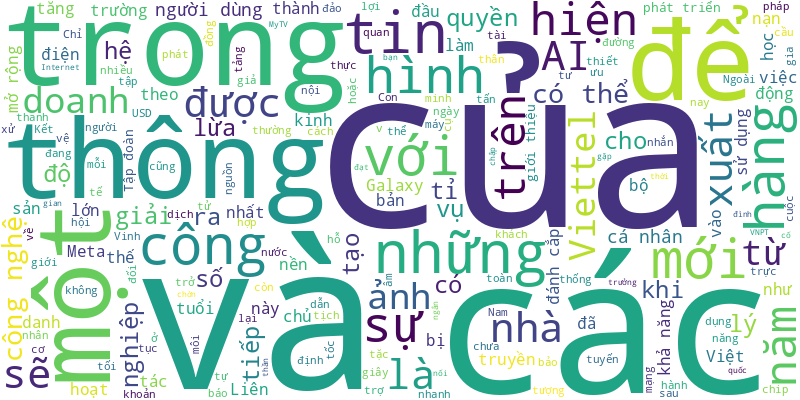
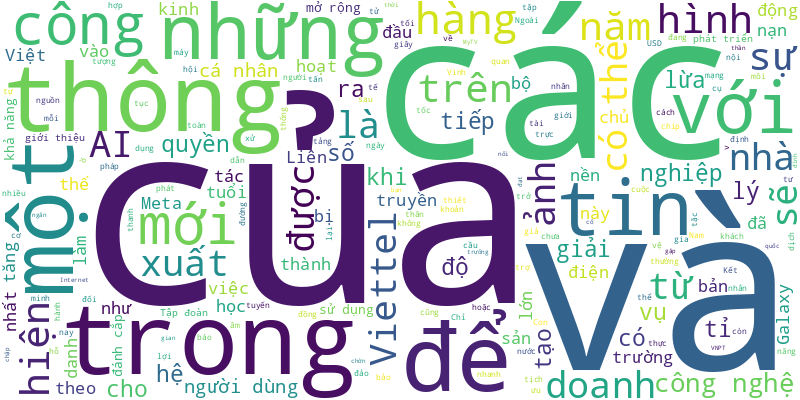
🍀 = 40%

diff --git a/README.md b/README.md
@@ -1,6 +1,25 @@
 # Tuoi Tre RSS 
 
 ## Giáo dục 
+- Nhiều bước tiến mới về AI sẽ được Google và các chuyên gia công nghệ hàng đầu giới thiệu trong sự kiện AI Day tại TP.HCM. Tuổi TRẻ Online cập nhật.
+- Đăng ký 'trại hè quân đội nhí' cho con trên Facebook, chỉ trong 5 tiếng, chị M. bị lừa lấy hơn 1 tỉ đồng.
+- Học sinh có 4 ngày đăng ký dự khảo sát vào lớp 6 các trường THCS nổi tiếng ở TP Thủ Đức, TP.HCM.
+- Đại học Quốc gia TP.HCM vừa công bố triển khai phương thức ưu tiên xét tuyển thẳng thí sinh giỏi, tài năng...
+- Với sự phát triển không ngừng của xã hội, AI ngày càng có sức ảnh hưởng đến con người, đặc biệt là giới trẻ. Vậy AI trong mắt giới trẻ như thế nào?
+- Ngày 10-5, AI Day - 'Hiểu Al làm giàu hành trang nghề nghiệp' được Tuổi Trẻ phối hợp với Google tổ chức tại TP.HCM với nhiều hoạt động hấp dẫn.
+- Tận dụng vỏ trái cây, nhóm nữ sinh viên Trường đại học Quốc tế đã làm ra màng bọc thực phẩm có thể ăn được.
+- Chiều 9-5, Cục Quản lý chất lượng, Bộ Giáo dục và Đào tạo chính thức thông tin về phương án xử lý với hơn 56.000 chứng chỉ IELTS do IDP tổ chức thi tại Việt Nam trong thời gian chưa được cấp phép.
+- Làm thế nào để bịt lỗ hổng kiểm định đại học khi sinh viên tốt nghiệp đi phụ bán cà phê, bưng phở cũng xếp vào có việc làm.
+- Có tổng cộng 20 sinh viên nghi ngộ độc thực phẩm sau khi ăn tại một tòa nhà ký túc xá khu B Đại học Quốc gia TP.HCM.
+- Ngày 10-5, báo Tuổi Trẻ phối hợp cùng Google tổ chức sự kiện ‘Hiểu AI - Làm giàu hành trang nghề nghiệp ’
+- GS.TS Võ Xuân Vinh, người ở vị trí thứ 8 trong 47 người Việt vào ‘top nhà khoa học ảnh hưởng nhất thế giới’, vừa bị một tạp chí gỡ bỏ bài báo quốc tế.
+- Phòng giáo dục và đào tạo TP Thủ Đức, TP.HCM vừa công bố kế hoạch tuyển sinh đầu cấp năm học 2024 - 2025.
+- Tại Việt Nam, AI đang được ứng dụng ngày càng rộng rãi trong trường học, mang đến những thay đổi tích cực.
+- Cử tri huyện Hóc Môn, TP.HCM cho rằng ngành giáo dục cần quản lý các trường quốc tế chặt chẽ hơn sau những vụ việc ồn ào thời gian qua.
+- Trong thông báo vừa phát đi, Công ty IDP cho biết hơn 56.200 chứng chỉ IELTS cấp năm 2022 vẫn được thế giới công nhận, dù Bộ Giáo dục và Đào tạo nói chưa tuân thủ quy định tại Việt Nam.
+- Tối 8-5, đã có 19 sinh viên ký túc xá Đại học Quốc gia TP.HCM nhập viện trong tình trạng đau bụng, tiêu chảy... nghi do ngộ độc thực phẩm.
+- Thật lạ khi ngày thi tuyển sinh lớp 10 tại TP.HCM còn hơn 1 tháng, nhiều học sinh lớp 9 đã rẽ hướng đăng ký học các trường nghề. Càng lạ hơn khi lựa chọn "bỏ" lớp 10 công lập có không ít học sinh giỏi.
+- Đến thời điểm này, hàng chục ngàn thí sinh trên cả nước đã biết mình đậu đại học (trúng tuyển có điều kiện) ở các phương thức xét tuyển sớm.
 - Tuyển sinh vào lớp 1, lớp 6, lớp 10 ở TP.HCM năm nay có nhiều điểm mới, phụ huynh lưu ý gì để chọn được chỗ học như mong muốn cho con?
 - Lãnh đạo Sở Giáo dục và Đào tạo Hà Nội khẳng định không cho phép các trường vận động, ép buộc học sinh không dự thi tuyển sinh vào lớp 10.
 - Trước khi giữ cương vị hiệu trưởng, PGS.TS Nguyễn Đức Sơn là phó hiệu trưởng Trường đại học Sư phạm Hà Nội.
@@ -12,57 +31,38 @@
 - Em Nguyễn Lê Quốc Bảo, học sinh Trường chuyên Lê Hồng Phong, TP.HCM, đã được cấp visa đi Mỹ dự thi khoa học kỹ thuật quốc tế vào sáng 8-5.
 - Tham gia các câu lạc bộ ở trường cao đẳng, đại học giúp sinh viên có cơ hội hợp tác với các nghệ sĩ nổi tiếng, tự tin tổ chức sự kiện.
 - Mùa tuyển sinh lớp 10 năm 2024, Trường chuyên Lê Hồng Phong và Trần Đại Nghĩa sẽ tuyển sinh lớp chuyên Anh đề án 5695. Lớp này khác lớp chuyên Anh ra sao?
-- Một số học sinh đang ở lứa tuổi mới lớn 13, 14 đã theo bạn bè tự tìm đọc các loại sách đam mỹ (nam yêu nam) và đọc say sưa, đắm đuối khiến nhiều bậc phụ huynh vô cùng lo lắng.
-- Những thùng nước ngọt đầu tiên của học sinh, giáo viên, phụ huynh tại quận 8, TP.HCM được chở đến xã Tân Thành, huyện Gò Công Đông, tỉnh Tiền Giang từ ngày 7-5.
-- Thí sinh có điểm thi đánh giá tư duy cao nhất kíp thi sáng đợt 4 là học sinh Trường THPT Đan Phượng (Hà Nội), đạt 95,65/100 điểm.
-- Sở Giáo dục và Đào tạo tổ chức hội thi vẽ bích họa sen nhằm hưởng ứng Lễ hội sen Đồng Tháp lần thứ II-2024, qua đó thu hút hàng trăm tác phẩm tranh sen.
-- Chiều tối 7-5, ban tổ chức hội thi sáng tác ảnh Tuổi Xanh năm 2024 tổng kết và trao giải thưởng cho các thí sinh tham dự vòng chung kết.
-- Start-up có tên Tomia phát triển ứng dụng học tập kết hợp AI và phương pháp giáo dục Montessori vốn được nhiều trường mầm non và phụ huynh sử dụng trong nuôi dạy trẻ.
-- Sắp đến ngày diễn ra Hội thi khoa học kỹ thuật quốc tế diễn ra tại Mỹ, nhưng TP.HCM vẫn còn 1 học sinh chưa được cấp visa.
-- Sở Giáo dục và Đào tạo TP.HCM sẽ căn cứ kết quả tuyển sinh lớp 10 năm 2024 và có thể giao chỉ tiêu bổ sung cho các trường còn phòng học.
-- Cổng đăng ký dự thi đánh giá năng lực Đại học Quốc gia TP.HCM đợt 2 năm 2024 sẽ đóng vào cuối ngày hôm nay 7-5.
-- Sở Y tế TP.HCM cho biết không phát hiện vụ ngộ độc tập thể nào tại hai trường tiểu học ở quận 4 và TP Thủ Đức.
-- Có sinh viên đang dùng một lúc đến 4 ứng dụng AI cho học tập, nghiên cứu, từ chương trình chính khóa đến luyện thi tiếng Anh…
-- Từ các loại rác thải hữu cơ, nhóm năm sinh viên của Viện Nghiên cứu và đào tạo Việt - Anh (Đại học Đà Nẵng) đã hiện thực hóa ý tưởng làm ra loại mực viết, màu vẽ đặc biệt.
-- Đại học Quốc gia TP.HCM vừa công bố chỉ tiêu tuyển dụng đợt 2 các nhà khoa học trẻ xuất sắc, các nhà khoa học đầu ngành.
-- Sở Giáo dục và đào tạo TP.HCM vừa có báo cáo UBND TP về việc giảm chỉ tiêu tuyển sinh lớp 10 năm 2024. Trong đó, chủ yếu giảm chỉ tiêu ở các quận trung tâm.
-- Trường đại học Khoa học tự nhiên (Đại học Quốc gia TP.HCM) vừa công bố đề án tuyển sinh năm 2024, trong đó có mức học phí khóa mới.
-- Nhiều phụ huynh cùng con mang những món đồ không dùng đến Nhà nhiều lá (quận 10, TP.HCM) để đổi lấy cây xanh, đọc sách miễn phí tại thư viện.
-- Hiệp hội Toán học công nghiệp và ứng dụng quốc tế SIAM vừa quyết định trao giải thưởng Dénes König 2024 cho TS Phạm Tuấn Huy.
-- Mở ngành loạn xạ, hợp tác trường và ngành kinh tế còn hạn chế, doanh nghiệp vẫn kêu sinh viên tốt nghiệp thiếu kiến thức và kỹ năng làm việc...
-- Sở Giáo dục và Đào tạo tỉnh Bình Định vừa công bố chỉ tiêu tuyển sinh lớp 10 năm học 2024-2025 cho 56 trường THPT và trực thuộc.
 ![Edu](Edu.png)
 ## Thời Sự 
-- Tờ Telegraph cho hay Công ty dược phẩm AstraZeneca đã thông báo việc thu hồi vắc xin COVID-19 của hãng này trên toàn cầu (tên thương mại là Vaxzevria).
-- Ông Trần Văn Tuân - người dùng kéo đâm phó chánh án Tòa án nhân dân huyện Cam Lộ (Quảng Trị) - bị khởi tố tội “giết người”.
-- Dự án khu đô thị Aqua City gặp nhiều vướng mắc khiến tiến độ xây dựng chững lại, kéo theo nhiều người mua nhà chưa được bàn giao như cam kết.
-- Sau phản ánh của Tuổi Trẻ Online, UBND phường 12, quận Tân Bình, TP.HCM ra quân lập lại trật tự lòng lề đường để ngăn chặn tình trạng bán hàng rong trên đường Hoàng Hoa Thám.
-- Mới đây, Cơ quan cảnh sát điều tra Công an TP.HCM yêu cầu Sở Tài nguyên và Môi trường tỉnh Đồng Nai cung cấp hồ sơ, tài liệu liên quan đến dự án khu đô thị Aqua City.
-- Một số tin tức đáng chú ý: Dấu hiệu áp lực lạm phát cao hơn thời gian tới; Khẩn trương hoàn thành lưới điện để nhập khẩu điện từ Lào; TP.HCM có khoảng 8.000 hướng dẫn viên du lịch...
-- Hôm nay thời tiết miền Nam ngày nắng, chiều tối mưa dông nhiều nơi. Miền Bắc mưa to đến rất to.
-- Sau khi kiểm soát được ứng dụng tài khoản ngân hàng, kẻ gian thực hiện lệnh chuyển tiền trên điện thoại và nạn nhân mất sạch tiền trong chốc lát.
-- Theo quy định của Luật Căn cước có hiệu lực từ 1-7, ngoài thông tin sinh trắc học về khuôn mặt và vân tay, cơ quan công an sẽ thu nhận thêm thông tin về mống mắt với người dân khi đi làm căn cước mới.
-- Lâm Đồng đôn đốc xử lý vi phạm trên đất của chủ tịch HĐQT Ngân hàng Nam Á và người liên quan cho khu du lịch sinh thái Đôi Dép thuê.
-- Rừng keo tại xã Ninh Sơn (thị xã Ninh Hòa, Khánh Hòa) bất ngờ bốc cháy, sau đó lan ra rừng keo trồng và ruộng mía của người dân gần đó.
-- Cơ quan an ninh điều tra Bộ Công an yêu cầu UBND tỉnh Kiên Giang rà soát, cung cấp thông tin, tài liệu liên quan đến các dự án trồng, chăm sóc cây xanh trong tỉnh phục vụ điều tra, xác minh vụ việc có dấu hiệu vi phạm pháp luật.
-- Thời điểm cảnh sát tiếp cận khám nghiệm, thi thể không còn nguyên vẹn nằm dưới chân cầu Long Biên (Hà Nội) đã khô lại.
-- Mới đây Cơ quan cảnh sát điều tra Công an TP.HCM đã yêu cầu tỉnh Đồng Nai cung cấp hồ sơ, tài liệu về khu đô thị Aqua City của Tập đoàn Novaland. Những nội dung cơ quan công an yêu cầu cung cấp là gì?
-- Trong 5 tuyến buýt điện được chấp thuận thí điểm, đến nay TP.HCM mới chỉ vận hành một tuyến là D4, nhưng tuyến này lỗ 33,6 tỉ sau hai năm.
-- Theo báo cáo, chủ đầu tư sẽ tái khởi động Cocobay, nhưng đến nay siêu dự án này vẫn trong cảnh vắng vẻ.
-- Theo quy hoạch sắp công bố, tỉnh Lâm Đồng sẽ là thành phố trực thuộc Trung ương vào năm 2050
-- Ủy ban Kiểm tra Trung ương đã đề nghị kỷ luật cựu bộ trưởng, chủ nhiệm Văn phòng Chính phủ Mai Tiến Dũng và các ông Dương Văn Thái, Phạm Thái Hà.
-- Trong các ngày 6 và 7-5, tại Hà Nội, Ủy ban Kiểm tra Trung ương đã họp kỳ thứ 41. Chủ nhiệm Ủy ban Kiểm tra Trung ương Trần Cẩm Tú chủ trì kỳ họp.
-- UBND tỉnh Nghệ An kết luận phần đất các thầy cô mượn để ở thuộc diện tích Trường THPT Dân tộc nội trú tỉnh.
-- Trong khoảng 3 giờ tới, ở thủ đô Hà Nội có thể xuất hiện mưa dông, còn ở khu vực Bắc Bộ và Bắc Trung Bộ sẽ có nơi mưa to trong đêm nay và ngày mai.
-- TP.HCM sẽ có nhiều giải pháp phát triển giao thông xanh, ưu đãi để mở rộng mạng lưới buýt điện, taxi điện trên địa bàn huyện Cần Giờ.
-- Người nuôi tôm gửi đơn cầu cứu vì các cơ sở nuôi tôm công nghiệp xả nước thải đen ngòm ra các kênh rạch, gây ô nhiễm môi trường ở TP Hà Tiên.
-- Người nhà cháu N., học sinh nhảy lầu ở Đà Nẵng, cho biết sức khỏe của cháu đã có tiến triển tốt.
-- Với dự thảo Luật Việc làm sửa đổi, các cơ quan, ban ngành, địa phương nêu nhiều góp ý, đề nghị, trong đó có quản lý học sinh sinh viên làm thêm giờ.
-- Công ty CP An Viên B.P vừa đề xuất Chính phủ cho khai thác bô xít và chế biến alumin quy mô lớn tại tỉnh Bình Phước.
-- Hà Nội, TP.HCM, Quảng Ninh và Bình Dương được yêu cầu sớm hoàn thiện tài liệu mô hình mẫu về bộ phận một cửa.
-- Sự cố sụt lở hầm Bãi Gió trên tuyến đường sắt Hà Nội - TP.HCM qua đèo Cả làm Tổng công ty Đường sắt Việt Nam thiệt hại hơn 50,45 tỉ đồng.
-- Tại chùa An Trú, một bảo tháp tre cao 40m được các Phật tử chung tay dựng lên trong 2 tháng qua mừng Đại lễ Phật đản.
-- Ghi nhận của phóng viên chiều 8-5, hàng ngàn con cá và rác nổi lềnh bềnh trên kênh Nhiêu Lộc - Thị Nghè (TP.HCM). Dự báo những ngày tới, tình trạng có thể phức tạp hơn.
+- Bà Vũ Thị Minh Châu - chủ tịch UBND huyện Trảng Bom, tỉnh Đồng Nai đang có đơn xin nghỉ việc. Trước đó, bà Châu đã bị kỷ luật cảnh cáo.
+- Đó là một trong những hình thức kiểm tra đột xuất của đoàn kiểm tra về việc thực hiện các nhiệm vụ của đề án 06 tại các sở ngành, địa phương của TP.HCM.
+- Nhiều ý kiến đã không mấy hài lòng về việc cây xanh bị cắt tỉa cành trong những ngày nắng nóng tại các đô thị như TP.HCM và TP Hà Nội.
+- Gương chiếu hậu là thiết bị an toàn thiết yếu của các phương tiện ô tô và xe máy, giúp lái xe có thể quan sát phía sau mà không cần phải quay đầu.
+- UBND TP.HCM sẽ xử lý trách nhiệm người đứng đầu sở ngành, đơn vị có liên quan không thực hiện tốt quy chế phối hợp, không có ý kiến, chậm trễ có ý kiến.
+- Theo Viện trưởng Lê Minh Trí, 6 tháng qua đã khởi tố mới nhiều vụ án tham nhũng lớn, trong đó có vụ liên quan các bộ, ngành, địa phương, có sự cấu kết chặt chẽ, tinh vi giữa cán bộ với doanh nghiệp.
+- Tin tức đáng chú ý: TP.HCM thực hiện nhiều giải pháp giảm địa điểm cứ mưa là ngập; Samsung sẽ đầu tư thêm vào Việt Nam 1 tỉ USD/năm; Người lao động có đất thu hồi được hỗ trợ trong thời hạn 5 năm
+- Hôm nay nắng nóng thu hẹp ở Nam Bộ, mưa gia tăng, nhiều nơi mưa to. Bắc Bộ sáng mưa dông diện rộng.
+- Nằm ven biển và trên con đường du lịch kết nối Đà Nẵng - Hội An là danh thắng độc đáo Ngũ Hành Sơn.
+- Thấy hai bạn không may đuối nước, cháu nhỏ gọi ông nội ra cứu. Hố nước sâu tích tụ sau các cơn mưa lớn khiến 3 ông cháu tử vong.
+- Tối 9-5, Ban Quản lý đường sắt đô thị TP.HCM đến khảo sát công trường di dời hạ tầng kỹ thuật tuyến metro số 2.
+- Ông Nguyễn Hồng Linh - cựu chủ tịch UBND huyện Chư Sê (tỉnh Gia Lai) - bị kỷ luật cảnh cáo vì liên quan sai phạm bồi thường, tái định cư dự án đường Hồ Chí Minh.
+- Liên quan đến vụ việc bệnh viện ở tỉnh Quảng Nam siêu âm nữ bệnh nhân bị u nang buồng trứng phải nhưng khi phẫu thuật bóc khối u bên buồng trứng trái, Cục Quản lý khám, chữa bệnh, Bộ Y tế đã yêu cầu báo cáo làm rõ, xử nghiêm vi phạm nếu có.
+- Thức ăn đường phố được ưa chuộng vì sự tiện lợi, giá rẻ. Tuy nhiên, nó cũng tiềm ẩn nhiều nguy cơ mất an toàn vệ sinh thực phẩm bên cạnh hàng rong trước các cổng trường.
+- Các lực lượng Việt Nam cùng Trung Quốc đã tìm kiếm được 14 ngư dân, trong đó 1 người thiệt mạng và đang tích cực tìm kiếm 10 người còn lại.
+- Bốn công nhân Công ty Điện lực Chợ Lớn TP.HCM đã bị bỏng nặng do chập điện cháy nổ trong lúc sửa điện tại đường dây cáp ngầm.
+- Chủ tịch UBND TP.HCM nhấn mạnh rằng đề án metro là nội dung giúp TP cụ thể hóa thực hiện kết luận số 49 của Bộ Chính trị. Đây cũng là công cụ quan trọng để TP tái cấu trúc đô thị.
+- Việc chậm đưa dự án nhiệt điện Nhơn Trạch 3 và 4 vào vận hành có thể gây thiệt hại khoảng 13 tỉ đồng mỗi ngày.
+- Người dân xã Nguyễn Văn Thảnh, huyện Bình Tân, tỉnh Vĩnh Long bức xúc vì đường dân sinh cặp cao tốc dẫn vào ‘đường cùng, ngõ cụt’.
+- Đây là thông tin do ông Đinh Thiên Tân, trưởng Phòng Quản lý vận hành, Sở Xây dựng TP.HCM nêu ra tại họp báo chiều 9-5.
+- Tính đến hết năm 2023, thành phố còn 13 đường trục chính ngập do mưa mưa, và 5 đường trục chính ngập do triều cường.
+- Hồ Xuân Hải, người chồng dùng khí CO đầu độc chết vợ và 3 con ruột của mình, bị tuyên án tử hình.
+- Đó là phản hồi của Bộ Ngoại giao Việt Nam khi được hỏi về phiên điều trần tại Bộ Thương mại Mỹ liên quan việc công nhận Việt Nam là nền kinh tế thị trường.
+- Đó là thông tin mà đại diện Sở An toàn thực phẩm TP.HCM nêu ra về vụ nghi ngộ độc thực phẩm diễn ra tại ký túc xá Đại học Quốc gia TP.HCM.
+- Trước phản ánh việc một số trung tâm đăng kiểm chỉ nhận thanh toán bằng tiền mặt, Cục Đăng kiểm phát công văn yêu cầu chấp nhận thanh toán bằng các hình thức không dùng tiền mặt.
+- Bộ ngoại giao Việt Nam tiếp tục kêu gọi Campuchia phối hợp chặt chẽ trong chia sẻ thông tin về kênh đào Phù Nam Techo.
+- Sự cố tấm kính rơi khiến chị H.M.L. chấn thương nặng, hiện đang được cấp cứu và phải trải qua nhiều lần phẫu thuật.
+- Công an tỉnh Đồng Nai đã khởi tố thêm 23 bị can trong đường dây buôn lậu gần 200 triệu lít xăng từ Singapore về Việt Nam.
+- Có tổng cộng 20 sinh viên nghi ngộ độc thực phẩm sau khi ăn tại một tòa nhà ký túc xá khu B Đại học Quốc gia TP.HCM.
+- Thủ tướng Phạm Minh Chính khẳng định như vậy tại hội nghị lần thứ 3 của Hội đồng điều phối vùng Đồng bằng sông Hồng diễn ra sáng 9-5.
 ![New](News.png)
 ## Nhịp sống số 
 - Chỉ trong một thời gian ngắn, truyền hình MyTV của VNPT đã đạt được sự tăng trưởng thần tốc, thực sự trở thành người bạn đồng hành thân thiết với các gia đình Việt mỗi ngày.
